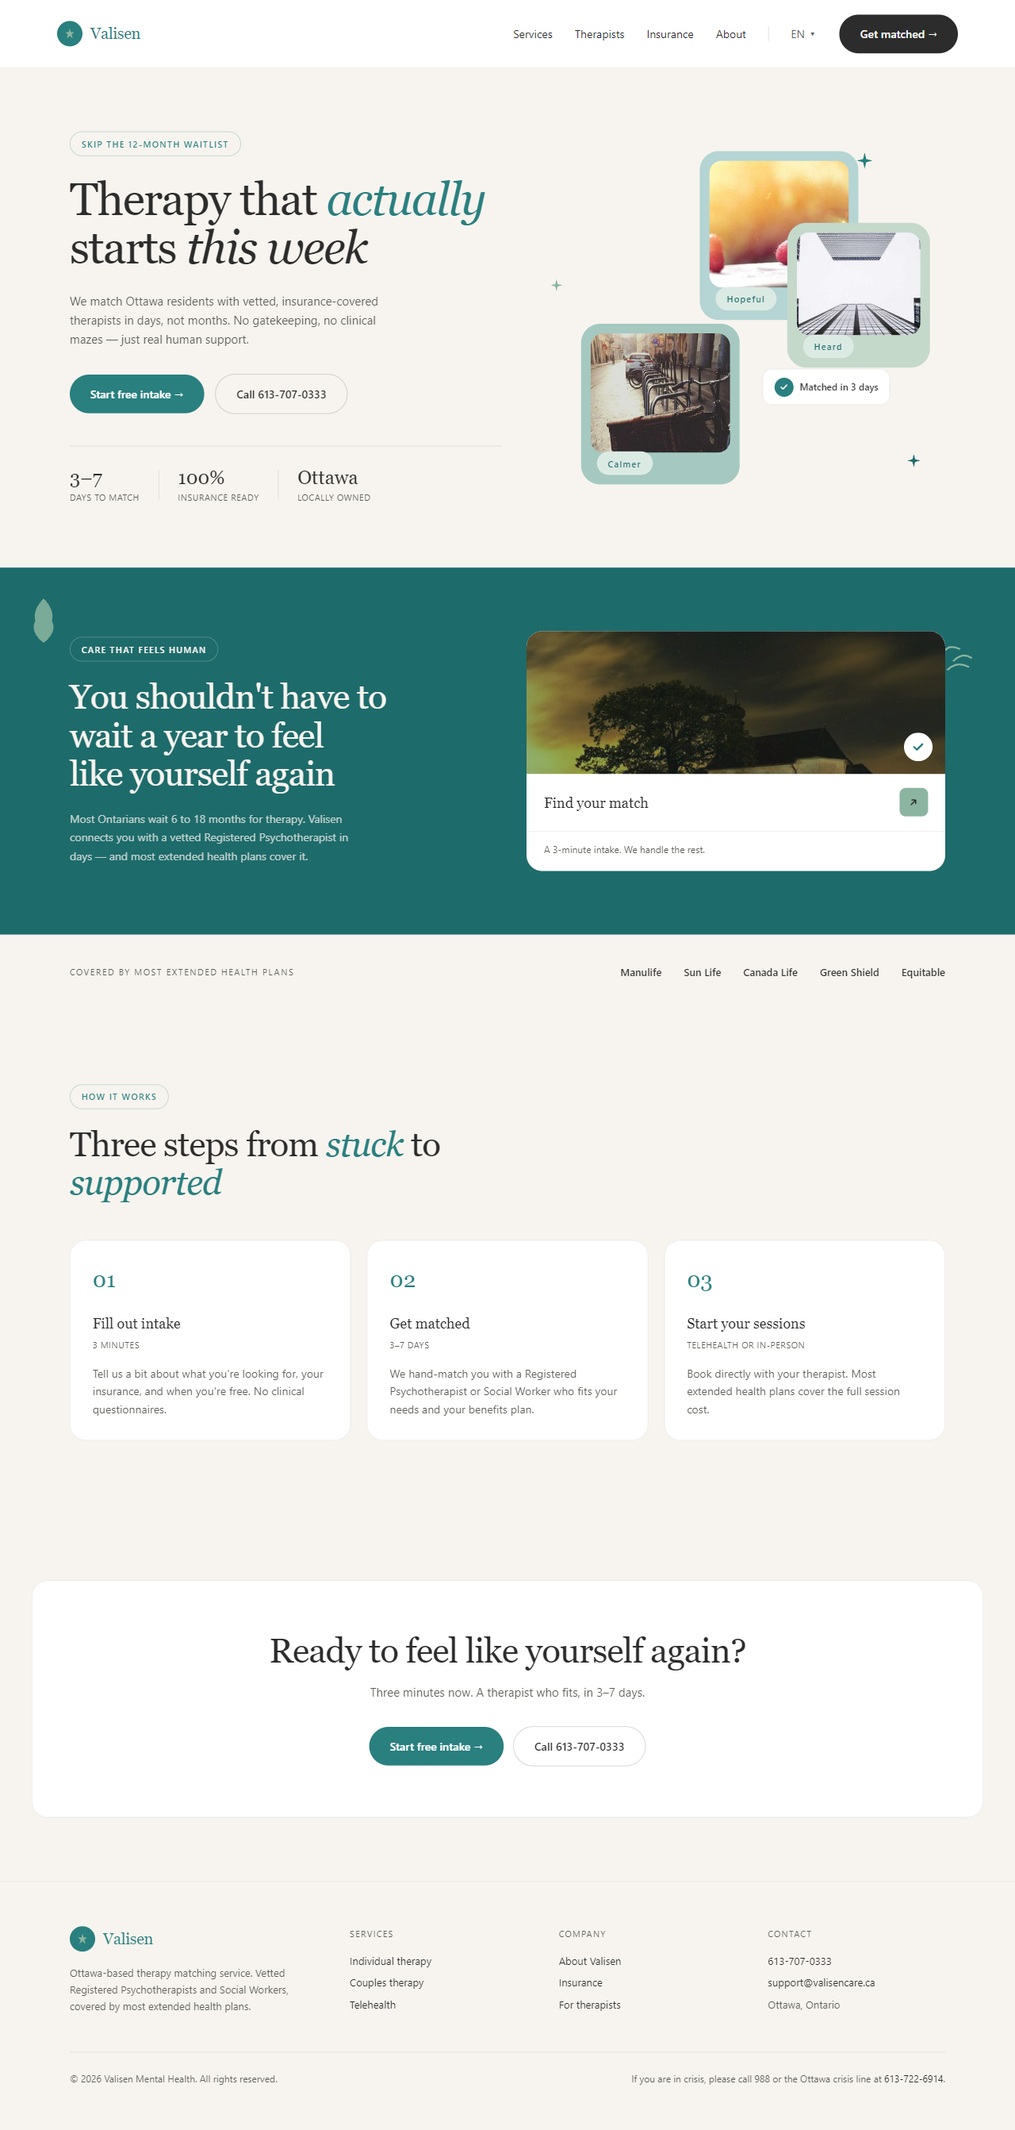
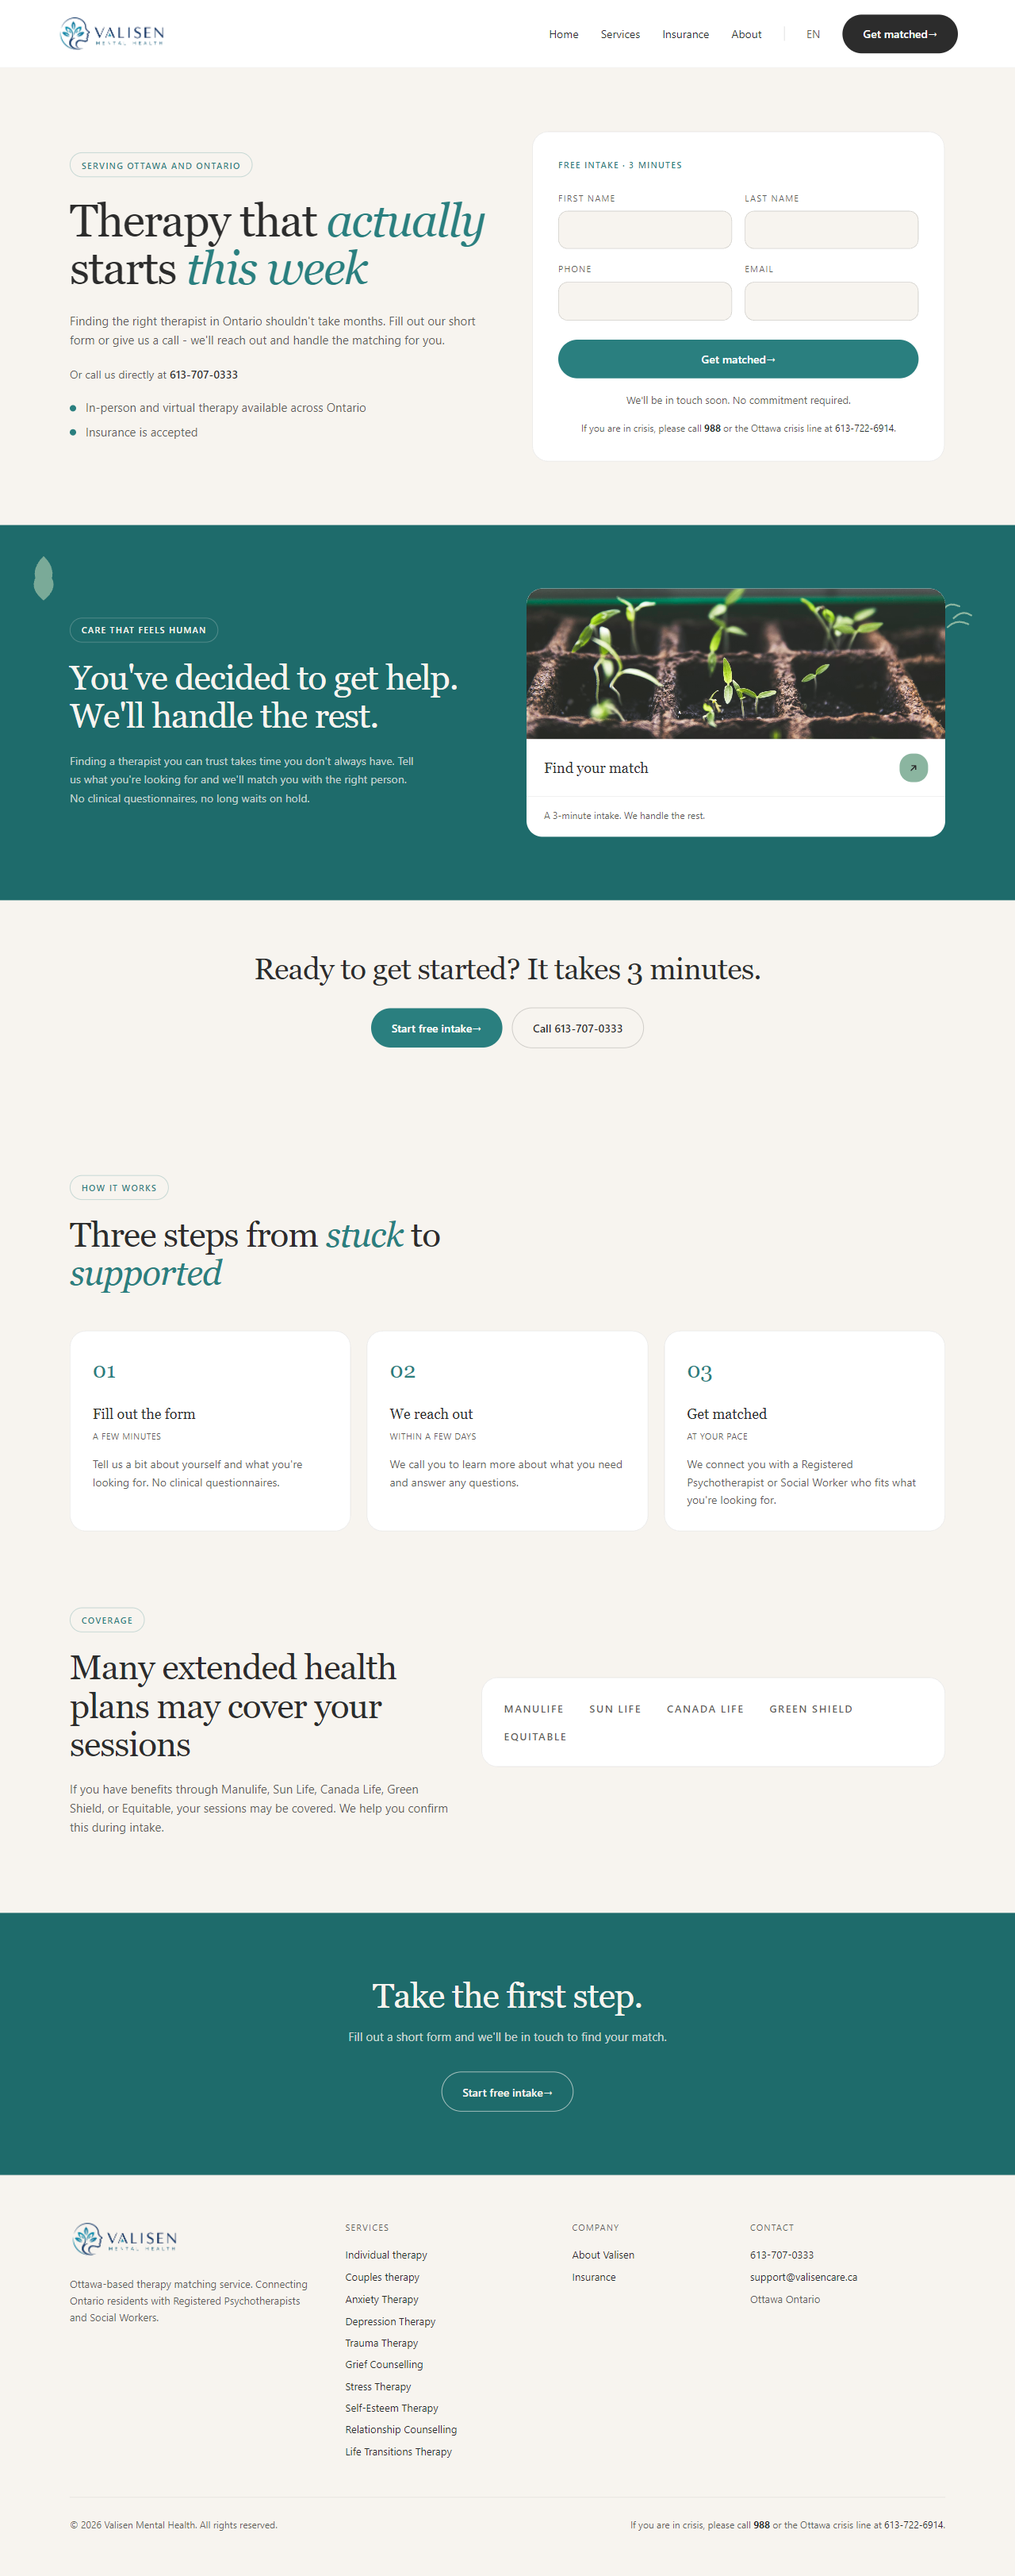
general fixes

diff --git a/lib/specialties.ts b/lib/specialties.ts
@@ -30,7 +30,7 @@ export const SPECIALTIES: SpecialtyPageData[] = [
     topic: "anxiety",
     whatItIs: [
       "Anxiety shows up differently for everyone. For some it's a constant low-level hum of worry. For others it's panic that comes out of nowhere. It can affect sleep, work, relationships, and the everyday choices that used to feel easy.",
-      "Therapy for anxiety isn't about making the feelings disappear overnight. It's about building tools to work with them, understanding where they come from, and slowly getting back the parts of your life anxiety has been taking up space in.",
+      "Therapy for anxiety isn't about forcing the feelings to disappear. It's about building tools to work with them, understanding where they come from, and gradually getting back the parts of your life anxiety has been taking up space in.",
     ],
   },
   {
@@ -57,7 +57,7 @@ export const SPECIALTIES: SpecialtyPageData[] = [
       "Trauma changes how the world feels. We connect you with a Registered Psychotherapist in Ontario who has experience working with trauma - and who will move at your pace.",
     topic: "trauma",
     whatItIs: [
-      "Trauma can come from a single event or from years of difficult experiences. It can show up as flashbacks or numbness, hypervigilance or avoidance, or as a sense that your body still remembers something your mind has tried to set aside.",
+      "Trauma can come from a single event or from ongoing difficult experiences. It can show up as flashbacks or numbness, hypervigilance or avoidance, or as a sense that your body still remembers something your mind has tried to set aside.",
       "Trauma therapy is careful and unhurried. The right therapist won't push you to revisit anything before you're ready. They work with you to build safety first, and to slowly process what happened in a way that feels manageable - not overwhelming.",
     ],
   },
@@ -71,7 +71,7 @@ export const SPECIALTIES: SpecialtyPageData[] = [
       "Grief doesn't follow a schedule. We connect you with a Registered Psychotherapist in Ontario who has experience supporting people through loss of every kind.",
     topic: "grief and loss",
     whatItIs: [
-      "Grief is one of the most universal human experiences and one of the loneliest. It can come after the loss of a person, a relationship, a role, or a future you were counting on. There's no right way to grieve and no right timeline.",
+      "Grief is one of the most universal human experiences and one of the loneliest. It can come after the loss of a person, a relationship, a role, or a future you were counting on. There's no right way to grieve, and your experience deserves room to be understood.",
       "Grief counselling gives you a space to feel what you're feeling without anyone trying to fix it. Your therapist walks with you through the experience - helping you make sense of it, hold space for what's hard, and slowly find your footing again.",
     ],
   },
@@ -85,7 +85,7 @@ export const SPECIALTIES: SpecialtyPageData[] = [
       "Chronic stress wears on everything - your sleep, your body, your relationships, your sense of yourself. We connect you with a Registered Psychotherapist in Ontario who can help.",
     topic: "stress and burnout",
     whatItIs: [
-      "Stress is supposed to come and go. When it doesn't - when the pressure stays on for months or years - it changes how you function. You might feel exhausted but unable to rest, snappy without knowing why, or stuck in a loop of overthinking that won't let up.",
+      "Stress is supposed to come and go. When it doesn't - when the pressure keeps building - it changes how you function. You might feel exhausted but unable to rest, snappy without knowing why, or stuck in a loop of overthinking that won't let up.",
       "Therapy for stress isn't about adding another thing to your to-do list. It's about understanding what's draining you, finding what actually helps, and rebuilding the kind of capacity that lets you handle life without running on empty.",
     ],
   },

diff --git a/app/about/page.tsx b/app/about/page.tsx
@@ -11,7 +11,7 @@ export const metadata = {
 const VALUES = [
   {
     title: "Accessibility",
-    body: "Therapy shouldn't be reserved for people who can navigate a year-long waitlist. We meet you where you are.",
+    body: "Therapy shouldn't be reserved for people who already know how to navigate the system. We meet you where you are.",
     icon: (
       <svg width="22" height="22" viewBox="0 0 24 24" fill="none" aria-hidden="true">
         <circle cx="12" cy="12" r="9" stroke="currentColor" strokeWidth="2" />
@@ -35,8 +35,8 @@ const VALUES = [
     ),
   },
   {
-    title: "Speed",
-    body: "When you've finally decided to ask for help, you shouldn't have to wait. We move as fast as we can to find you the right match.",
+    title: "Responsiveness",
+    body: "When you've decided to ask for help, the next step should feel supported. We focus on finding a thoughtful match for your needs.",
     icon: (
       <svg width="22" height="22" viewBox="0 0 24 24" fill="none" aria-hidden="true">
         <circle cx="12" cy="13" r="8" stroke="currentColor" strokeWidth="2" />
@@ -59,9 +59,9 @@ export default function AboutPage() {
             Making therapy <span className="italic text-teal">actually accessible</span> in Ottawa
           </h1>
           <p className="mt-6 max-w-[680px] text-vlg leading-[1.6] text-ink-secondary">
-            Valisen exists because the gap between deciding to start therapy and actually starting
-            therapy in Ontario is far too long. We&apos;re here to close it - by connecting you
-            with the right therapist and helping make sure your insurance does the heavy lifting.
+            Valisen exists because finding the right therapist in Ontario can feel complicated.
+            We&apos;re here to make the process easier - by connecting you with the right therapist
+            and helping make sure your insurance does the heavy lifting.
           </p>
         </div>
       </section>
@@ -82,8 +82,8 @@ export default function AboutPage() {
               part that&apos;s broken: the matching.
             </p>
             <p>
-              You fill out a short intake. We review it, reach out to learn more about what you
-              need, and connect you with a Registered Psychotherapist or Social Worker who fits.
+              You fill out a simple intake. We review it, connect with you to learn more about
+              what you need, and introduce you to a Registered Psychotherapist or Social Worker who fits.
               From that point on, your relationship is directly with your therapist.
             </p>
             <p>
@@ -125,7 +125,7 @@ export default function AboutPage() {
             Start with a free intake
           </h2>
           <p className="mx-auto mt-4 max-w-[460px] text-[15px] text-ink-secondary">
-            A few minutes. We&apos;ll be in touch soon.
+            Share what you&apos;re looking for. We&apos;ll help with the matching.
           </p>
           <div className="mt-8 flex flex-col items-stretch justify-center gap-3 sm:flex-row sm:items-center">
             <Link href="/intake" className="btn-primary justify-center">

diff --git a/components/SpecialtyPage.tsx b/components/SpecialtyPage.tsx
@@ -9,7 +9,7 @@ const EXPECTATIONS = [
   {
     n: "01",
     title: "Initial sessions",
-    body: "Your therapist takes time to understand your situation, your history, and what you're hoping to work through.",
+    body: "Your therapist makes space to understand your situation, your history, and what you're hoping to work through.",
   },
   {
     n: "02",
@@ -19,7 +19,7 @@ const EXPECTATIONS = [
   {
     n: "03",
     title: "Ongoing support",
-    body: "Sessions continue at your pace. Some people work with a therapist for a few months, others for longer. There's no fixed timeline.",
+    body: "Therapy is shaped around your goals, comfort level, and the kind of support that feels right for you.",
   },
 ];
 
@@ -30,9 +30,9 @@ const FAQS = [
       "Session costs vary by therapist. Many extended health plans may cover your sessions in full or in part. We help you understand coverage during intake.",
   },
   {
-    question: "How long does it take to get matched?",
+    question: "How does matching work?",
     answer:
-      "We reach out as soon as we can after you submit your intake. We'll work with you to find the right therapist based on your needs and availability.",
+      "After you submit your intake, we'll review your needs and availability so we can help find a therapist who fits.",
   },
   {
     question: "Do I need a referral from a doctor?",
@@ -114,8 +114,8 @@ function HowValisenHelps({ topic }: { topic: string }) {
           </h2>
           <p className="mx-auto mt-5 max-w-[650px] text-[15px] leading-[1.7] text-ink-secondary">
             Valisen connects you with a Registered Psychotherapist or Social Worker in Ontario who
-            has experience working with {topic}. You fill out a short intake. We reach out to learn
-            more. Then we match you with a therapist who fits what you need. From there, your
+            has experience working with {topic}. You fill out a simple intake. We learn more
+            about what matters to you, then match you with a therapist who fits what you need. From there, your
             relationship is directly with your therapist.
           </p>
         </div>
@@ -159,7 +159,7 @@ function DarkCta() {
           Take the first step
         </h2>
         <p className="mx-auto mt-4 max-w-[520px] text-[15px] leading-[1.6] text-canvas/80">
-          Fill out a short form and we&apos;ll be in touch to find your match.
+          Fill out a simple intake and we&apos;ll help you find your match.
         </p>
         <div className="mt-8">
           <Link

diff --git a/components/HeroSection.tsx b/components/HeroSection.tsx
@@ -10,12 +10,12 @@ export default function HeroSection() {
           <h1 className="mb-6 font-serif text-[40px] font-medium leading-[1.05] tracking-[-1.5px] text-ink md:text-v3xl">
             Therapy that <span className="italic text-teal">actually</span>
             <br />
-            starts <span className="italic text-teal">this week</span>
+            feels <span className="italic text-teal">right for you</span>
           </h1>
 
           <p className="max-w-[560px] text-vbase leading-[1.6] text-ink-secondary">
-            Finding the right therapist in Ontario shouldn&apos;t take months. Fill out our short
-            form or give us a call - we&apos;ll reach out and handle the matching for you.
+            Finding the right therapist in Ontario shouldn&apos;t feel overwhelming. Fill out our
+            intake or give us a call - we&apos;ll help you find a thoughtful match.
           </p>
           <p className="mt-5 text-[14px] text-ink-secondary">
             Or call us directly at{" "}
@@ -23,6 +23,16 @@ export default function HeroSection() {
               613-707-0333
             </a>
           </p>
+          <ul className="mt-5 flex max-w-[560px] flex-col gap-2 text-[15px] leading-[1.5] text-ink-secondary">
+            <li className="flex items-start gap-3">
+              <span className="mt-[8px] h-2 w-2 shrink-0 rounded-full bg-teal" aria-hidden="true" />
+              <span>In-person and virtual therapy available across Ontario</span>
+            </li>
+            <li className="flex items-start gap-3">
+              <span className="mt-[8px] h-2 w-2 shrink-0 rounded-full bg-teal" aria-hidden="true" />
+              <span>Insurance is accepted</span>
+            </li>
+          </ul>
         </div>
 
         <div className="mx-auto w-full max-w-[520px]">

diff --git a/components/DarkSection.tsx b/components/DarkSection.tsx
@@ -17,9 +17,9 @@ export default function DarkSection({
   ),
   body = (
     <>
-      Finding a therapist you can trust takes time you don&apos;t always have. Tell us what
-      you&apos;re looking for and we&apos;ll match you with the right person. No clinical
-      questionnaires, no long waits on hold.
+      Finding a therapist you can trust should feel clear and supported. Tell us what
+      you&apos;re looking for and we&apos;ll help match you with the right person. No clinical
+      questionnaires, no confusing search process.
     </>
   ),
   showMatchCard = true,
@@ -73,8 +73,8 @@ function MatchCard() {
       <div className="relative h-[190px] bg-sage">
         {/* eslint-disable-next-line @next/next/no-img-element */}
         <img
-          src="https://picsum.photos/400/300?random=22"
-          alt="A calm therapy consultation setting"
+          src="https://images.unsplash.com/photo-1466692476868-aef1dfb1e735?w=2560&q=85&auto=format&fit=crop"
+          alt="Young seedlings sprouting in soft natural light"
           className="h-full w-full object-cover"
         />
       </div>
@@ -96,7 +96,7 @@ function MatchCard() {
         </span>
       </Link>
       <p className="px-[22px] pb-[18px] pt-[14px] text-[12px] leading-[1.5] text-ink-secondary">
-        A 3-minute intake. We handle the rest.
+        A simple intake. We handle the matching.
       </p>
     </div>
   );

diff --git a/components/PhotoCard.tsx b/components/PhotoCard.tsx
@@ -8,6 +8,17 @@ type PhotoCardProps = {
   alt?: string;
 };
 
+const CURATED_PHOTOS = [
+  
+  "https://images.unsplash.com/photo-1499209974431-9dddcece7f88?w=2560&q=85&auto=format&fit=crop",
+  "https://images.unsplash.com/photo-1506126613408-eca07ce68773?w=2560&q=85&auto=format&fit=crop",
+  "https://images.unsplash.com/photo-1518895949257-7621c3c786d7?w=2560&q=85&auto=format&fit=crop",
+  "https://images.unsplash.com/photo-1491147334573-44cbb4602074?w=2560&q=85&auto=format&fit=crop",
+  "https://images.unsplash.com/photo-1469474968028-56623f02e42e?w=2560&q=85&auto=format&fit=crop",
+  "https://images.unsplash.com/photo-1497250681960-ef046c08a56e?w=2560&q=85&auto=format&fit=crop",
+
+];
+
 export default function PhotoCard({
   mood,
   src,
@@ -17,7 +28,7 @@ export default function PhotoCard({
   imageHeight = 160,
   alt,
 }: PhotoCardProps) {
-  const imageSrc = src ?? `https://picsum.photos/300/400?random=${fallbackId}`;
+  const imageSrc = src ?? CURATED_PHOTOS[(fallbackId - 1) % CURATED_PHOTOS.length];
   return (
     <div
       className={`rounded-[24px] p-3 ${className}`}

diff --git a/app/intake/page.tsx b/app/intake/page.tsx
@@ -5,7 +5,7 @@ import IntakeForm from "@/components/IntakeForm";
 export const metadata = {
   title: "Free intake - Valisen Mental Health",
   description:
-    "A short intake to help connect you with a Registered Psychotherapist or Social Worker in Ontario.",
+    "A simple intake to help connect you with a Registered Psychotherapist or Social Worker in Ontario.",
 };
 
 export default function IntakePage() {
@@ -16,7 +16,7 @@ export default function IntakePage() {
       <section className="py-12 md:py-20">
         <div className="container-v max-w-[560px]">
           <div className="mb-8 text-center">
-            <span className="badge-outline-teal mb-5">FREE INTAKE &middot; 3 MINUTES</span>
+            <span className="badge-outline-teal mb-5">FREE MATCHING INTAKE</span>
             <h1 className="font-serif text-[36px] font-medium leading-[1.1] tracking-[-1px] text-ink md:text-v2xl">
               Tell us a bit about you
             </h1>

diff --git a/app/page.tsx b/app/page.tsx
@@ -18,7 +18,7 @@ export default function HomePage() {
       <section className="bg-canvas py-14 text-center md:py-16">
         <div className="container-v">
           <h2 className="font-serif text-[30px] font-medium leading-[1.15] tracking-[-0.8px] text-ink md:text-[38px]">
-            Ready to get started? It takes 3 minutes.
+            Ready to find a therapist who fits?
           </h2>
           <div className="mt-7 flex flex-col items-stretch justify-center gap-3 sm:flex-row sm:items-center">
             <Link href="/intake" className="btn-primary">
@@ -58,7 +58,7 @@ export default function HomePage() {
       <CTASection
         dark
         headline="Take the first step."
-        subtext="Fill out a short form and we'll be in touch to find your match."
+        subtext="Fill out a simple intake and we'll help you find a therapist who fits."
       />
       <Footer />
     </main>

diff --git a/components/HeroForm.tsx b/components/HeroForm.tsx
@@ -43,7 +43,7 @@ export default function HeroForm() {
       className="rounded-card border-[0.5px] border-hairline bg-white p-6 md:p-8"
     >
       <div className="mb-6 text-vxs font-medium uppercase tracking-[1.2px] text-teal">
-        FREE INTAKE &middot; 3 MINUTES
+        FREE MATCHING INTAKE
       </div>
       <div className="grid grid-cols-1 gap-4 sm:grid-cols-2">
         <Field label="First Name">
@@ -87,7 +87,7 @@ export default function HeroForm() {
         Get matched <span aria-hidden="true">&rarr;</span>
       </button>
       <p className="mt-4 text-center text-[13px] leading-[1.6] text-ink-secondary">
-        We&apos;ll be in touch soon. No commitment required.
+        We&apos;ll review your intake with care. No commitment required.
       </p>
       <CrisisNote className="mt-4 text-center" />
     </form>

diff --git a/components/HowItWorks.tsx b/components/HowItWorks.tsx
@@ -2,19 +2,19 @@ const STEPS = [
   {
     n: "01",
     title: "Fill out the form",
-    duration: "A FEW MINUTES",
+    duration: "SHARE WHAT YOU NEED",
     body: "Tell us a bit about yourself and what you're looking for. No clinical questionnaires.",
   },
   {
     n: "02",
-    title: "We reach out",
-    duration: "WITHIN A FEW DAYS",
-    body: "We call you to learn more about what you need and answer any questions.",
+    title: "We learn more",
+    duration: "A SUPPORTED CONVERSATION",
+    body: "We connect with you to better understand your needs and answer any questions.",
   },
   {
     n: "03",
     title: "Get matched",
-    duration: "AT YOUR PACE",
+    duration: "CAREFUL MATCHING",
     body: "We connect you with a Registered Psychotherapist or Social Worker who fits what you're looking for.",
   },
 ];

diff --git a/components/FormConfirmation.tsx b/components/FormConfirmation.tsx
@@ -18,8 +18,8 @@ export default function FormConfirmation({ firstName = "" }: { firstName?: strin
         You&apos;re on the list.
       </h2>
       <p className="mx-auto mt-4 max-w-[460px] text-[15px] leading-[1.6] text-ink-secondary">
-        Thanks{firstName ? ` ${firstName}` : ""}. We&apos;ve received your intake and someone will
-        be in touch soon to discuss finding you the right match.
+        Thanks{firstName ? ` ${firstName}` : ""}. We&apos;ve received your intake and will review
+        it carefully so we can help find the right match.
       </p>
       <p className="mx-auto mt-5 max-w-[440px] text-[14px] leading-[1.6] text-ink-secondary">
         Questions in the meantime? Call{" "}

diff --git a/components/NavBar.tsx b/components/NavBar.tsx
@@ -5,6 +5,7 @@ import { useState } from "react";
 import Logo from "./Logo";
 
 const NAV_LINKS = [
+  { href: "/", label: "Home" },
   { href: "/services", label: "Services" },
   { href: "/services#insurance", label: "Insurance" },
   { href: "/about", label: "About" },
@@ -26,8 +27,6 @@ export default function NavBar() {
               </Link>
             </li>
           ))}
-          <li className="h-[18px] w-[0.5px] bg-black/15" aria-hidden="true" />
-          <li className="text-ink-secondary">EN</li>
           <li>
             <Link href="/intake" className="btn-dark">
               Get matched <span aria-hidden="true">&rarr;</span>
